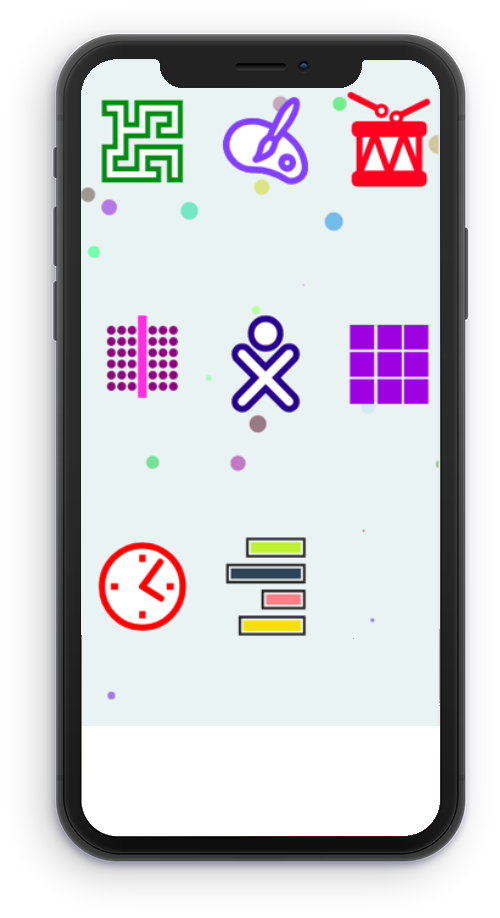
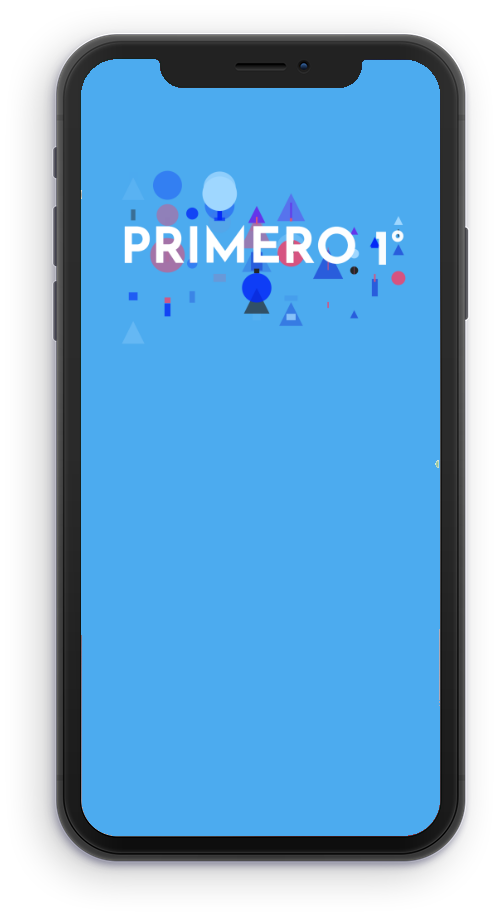
updated screenshots

diff --git a/MobApp/index.html b/MobApp/index.html
@@ -14,8 +14,8 @@ URI     : https://colorlib.com
     <!-- Required meta tags -->
     <meta charset="utf-8">
     <meta name="viewport" content="width=device-width, initial-scale=1, shrink-to-fit=no">
-    <meta name="description" content="Mobland - Mobile App Landing Page Template">
-    <meta name="keywords" content="HTML5, bootstrap, mobile, app, landing, ios, android, responsive">
+    <meta name="description" content="Primero - a free web application, designed for children aged 4-7, to enhance their learning abilities in a fun & creative way.">
+    <meta name="keywords" content="sugar sugarlabs primero web children education learning">
 
     <!-- Font -->
     <link rel="dns-prefetch" href="//fonts.googleapis.com">
@@ -184,10 +184,10 @@ URI     : https://colorlib.com
             </div>
 
             <div class="img-gallery owl-carousel owl-theme">
-                <img src="images/i-phone-screen.png" alt="image">
-                <img src="images/i-phone-screen.png" alt="image">
-                <img src="images/i-phone-screen.png" alt="image">
-                <img src="images/i-phone-screen.png" alt="image">
+                <img src="images/main.png" alt="image">
+                <img src="images/reflect.png" alt="image">
+                <img src="images/music.png" alt="image">
+                <img src="images/snake.png" alt="image">
             </div>
 
         </div>
@@ -210,7 +210,7 @@ URI     : https://colorlib.com
                 <p class="tagline">Tap one of the options below to download for your platform and begin exploring the world of Sugar. </p>
                 <div class="my-4">
 
-                    <a href="#" class="btn btn-light"><img src="images/appleicon.png" alt="icon"> App Store (coming soon)</a>
+                    <a hidden href="#" class="btn btn-light"><img src="images/appleicon.png" alt="icon"> App Store (coming soon)</a>
                     <a href="https://play.google.com/apps/testing/com.sugars.primero1" class="btn btn-light"><img src="images/playicon.png" alt="icon"> Google play</a>
                     <a href="http://iqragsoc.com/iqragsoc.com/primero1" class="btn btn-light"><img style="height: 18px;" src="images/xo.svg" alt="icon"> Web App</a>
                 </div>
